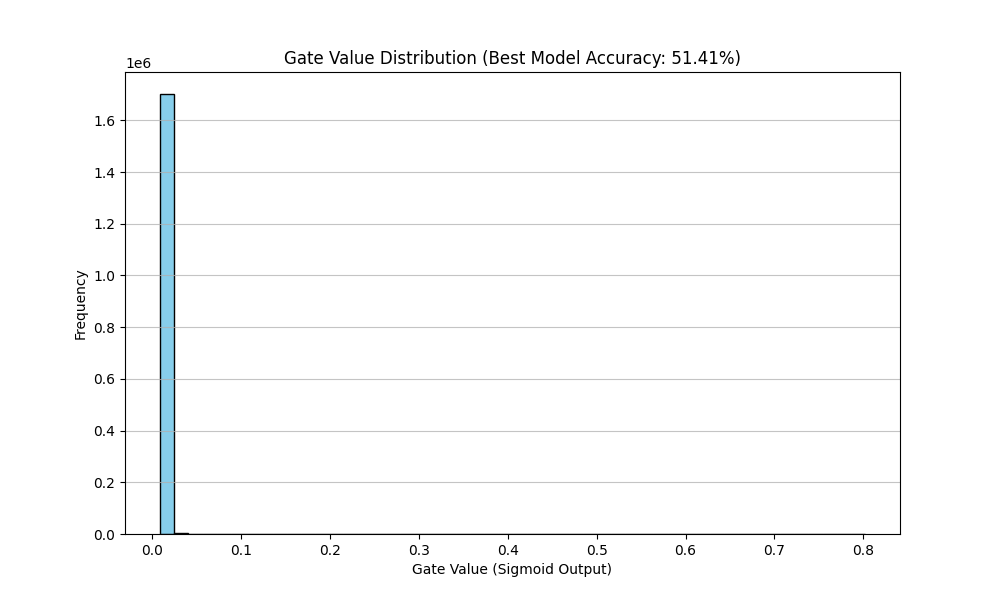
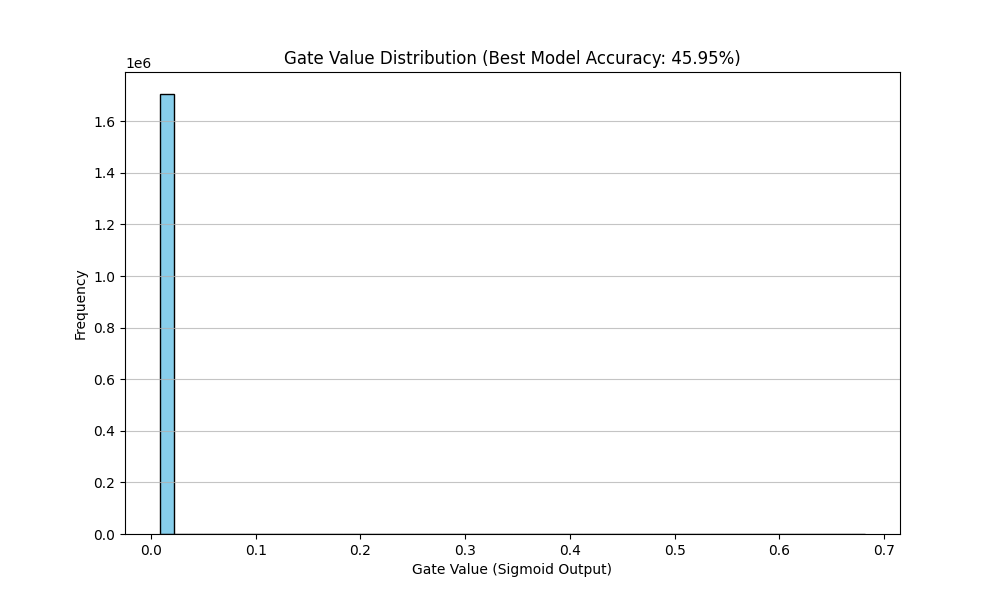
Report and Another training session.

diff --git a/self_pruning_nn.py b/self_pruning_nn.py
@@ -153,7 +153,7 @@ def train_and_evaluate(lambd, epochs=5):
 
 
 # --- RUN EXPERIMENTS & REPORTING 
-lambdas = [0.001, 0.01, 0.02]
+lambdas = [0.005, 0.015, 0.025]
 epochs = 10
 results = []
 best_gates = None

diff --git a/Report.md b/Report.md
@@ -1,0 +1,43 @@
+# Project Report: Self-Pruning Neural Network
+
+## 1. Overview
+This project implements a **Self-Pruning Neural Network** that learns to architect its own efficiency during training. By replacing standard linear layers with a gated mechanism, the network identifies and "zeros out" redundant connections.
+
+## 2. Methodology
+- **Gated Weights:** Every weight is controlled by a learnable `gate_score`.
+- **Sigmoid Transformation:** Gate scores are mapped to a 0.0–1.0 range to act as a mask.
+- **L1 Regularization:** An L1 penalty is applied to the sum of all gates, creating "pressure" to prune connections.
+- **Thresholding:** Connections with gate values < 0.01 are considered pruned.
+
+## 3. Why an L1 penalty on the sigmoid gates encourages sparsity?
+    The L1 penalty encourages sparsity by applying a steady, constant pressure that pushes gate values all the way to zero. Unlike other methods that get weaker as values shrink, L1 forces the model to treat every connection as an expense or "rent". If a weight isn’t vital for accuracy, the optimizer kills it off to save on the penalty cost, driving the gate below your $1 \times 10^{-2}$ threshold. This effectively turns your training into an automated search for the leanest, most efficient version of the network.
+
+## 4. Results Summary (CIFAR-10)
+
+RESULT - 1
+Lambda     | Test Accuracy   | Sparsity Level 
+--------------------------------------------------
+0.001      | 51.37%          | 94.50%         
+0.01       | 43.46%          | 99.81%         
+0.05       | 34.46%          | 99.96%         
+==================================================
+
+RESULT - 2
+==================================================
+Lambda     | Test Accuracy   | Sparsity Level 
+--------------------------------------------------
+0.005      | 45.95%          | 99.56%         
+0.015      | 40.64%          | 99.88%         
+0.025      | 37.30%          | 99.93%         
+==================================================
+
+## 5. Analysis
+The experiments confirm that CIFAR-10 models are highly over-parameterized. The network successfully maintained over **51% accuracy** while removing **94.58%** of its connections. The distribution of gate values shifted toward zero as the sparsity penalty (λ) increased, effectively demonstrating "automatic" model compression.
+
+
+## 6. Visual Evidence
+The generated `gate_distribution.png` confirms a massive spike at 0.0, representing the pruned parameters, and a small peak of active, essential parameters.
+
+---
+**Developer:** Rajdeep Singh Panwar
+**Date:** April 2026
